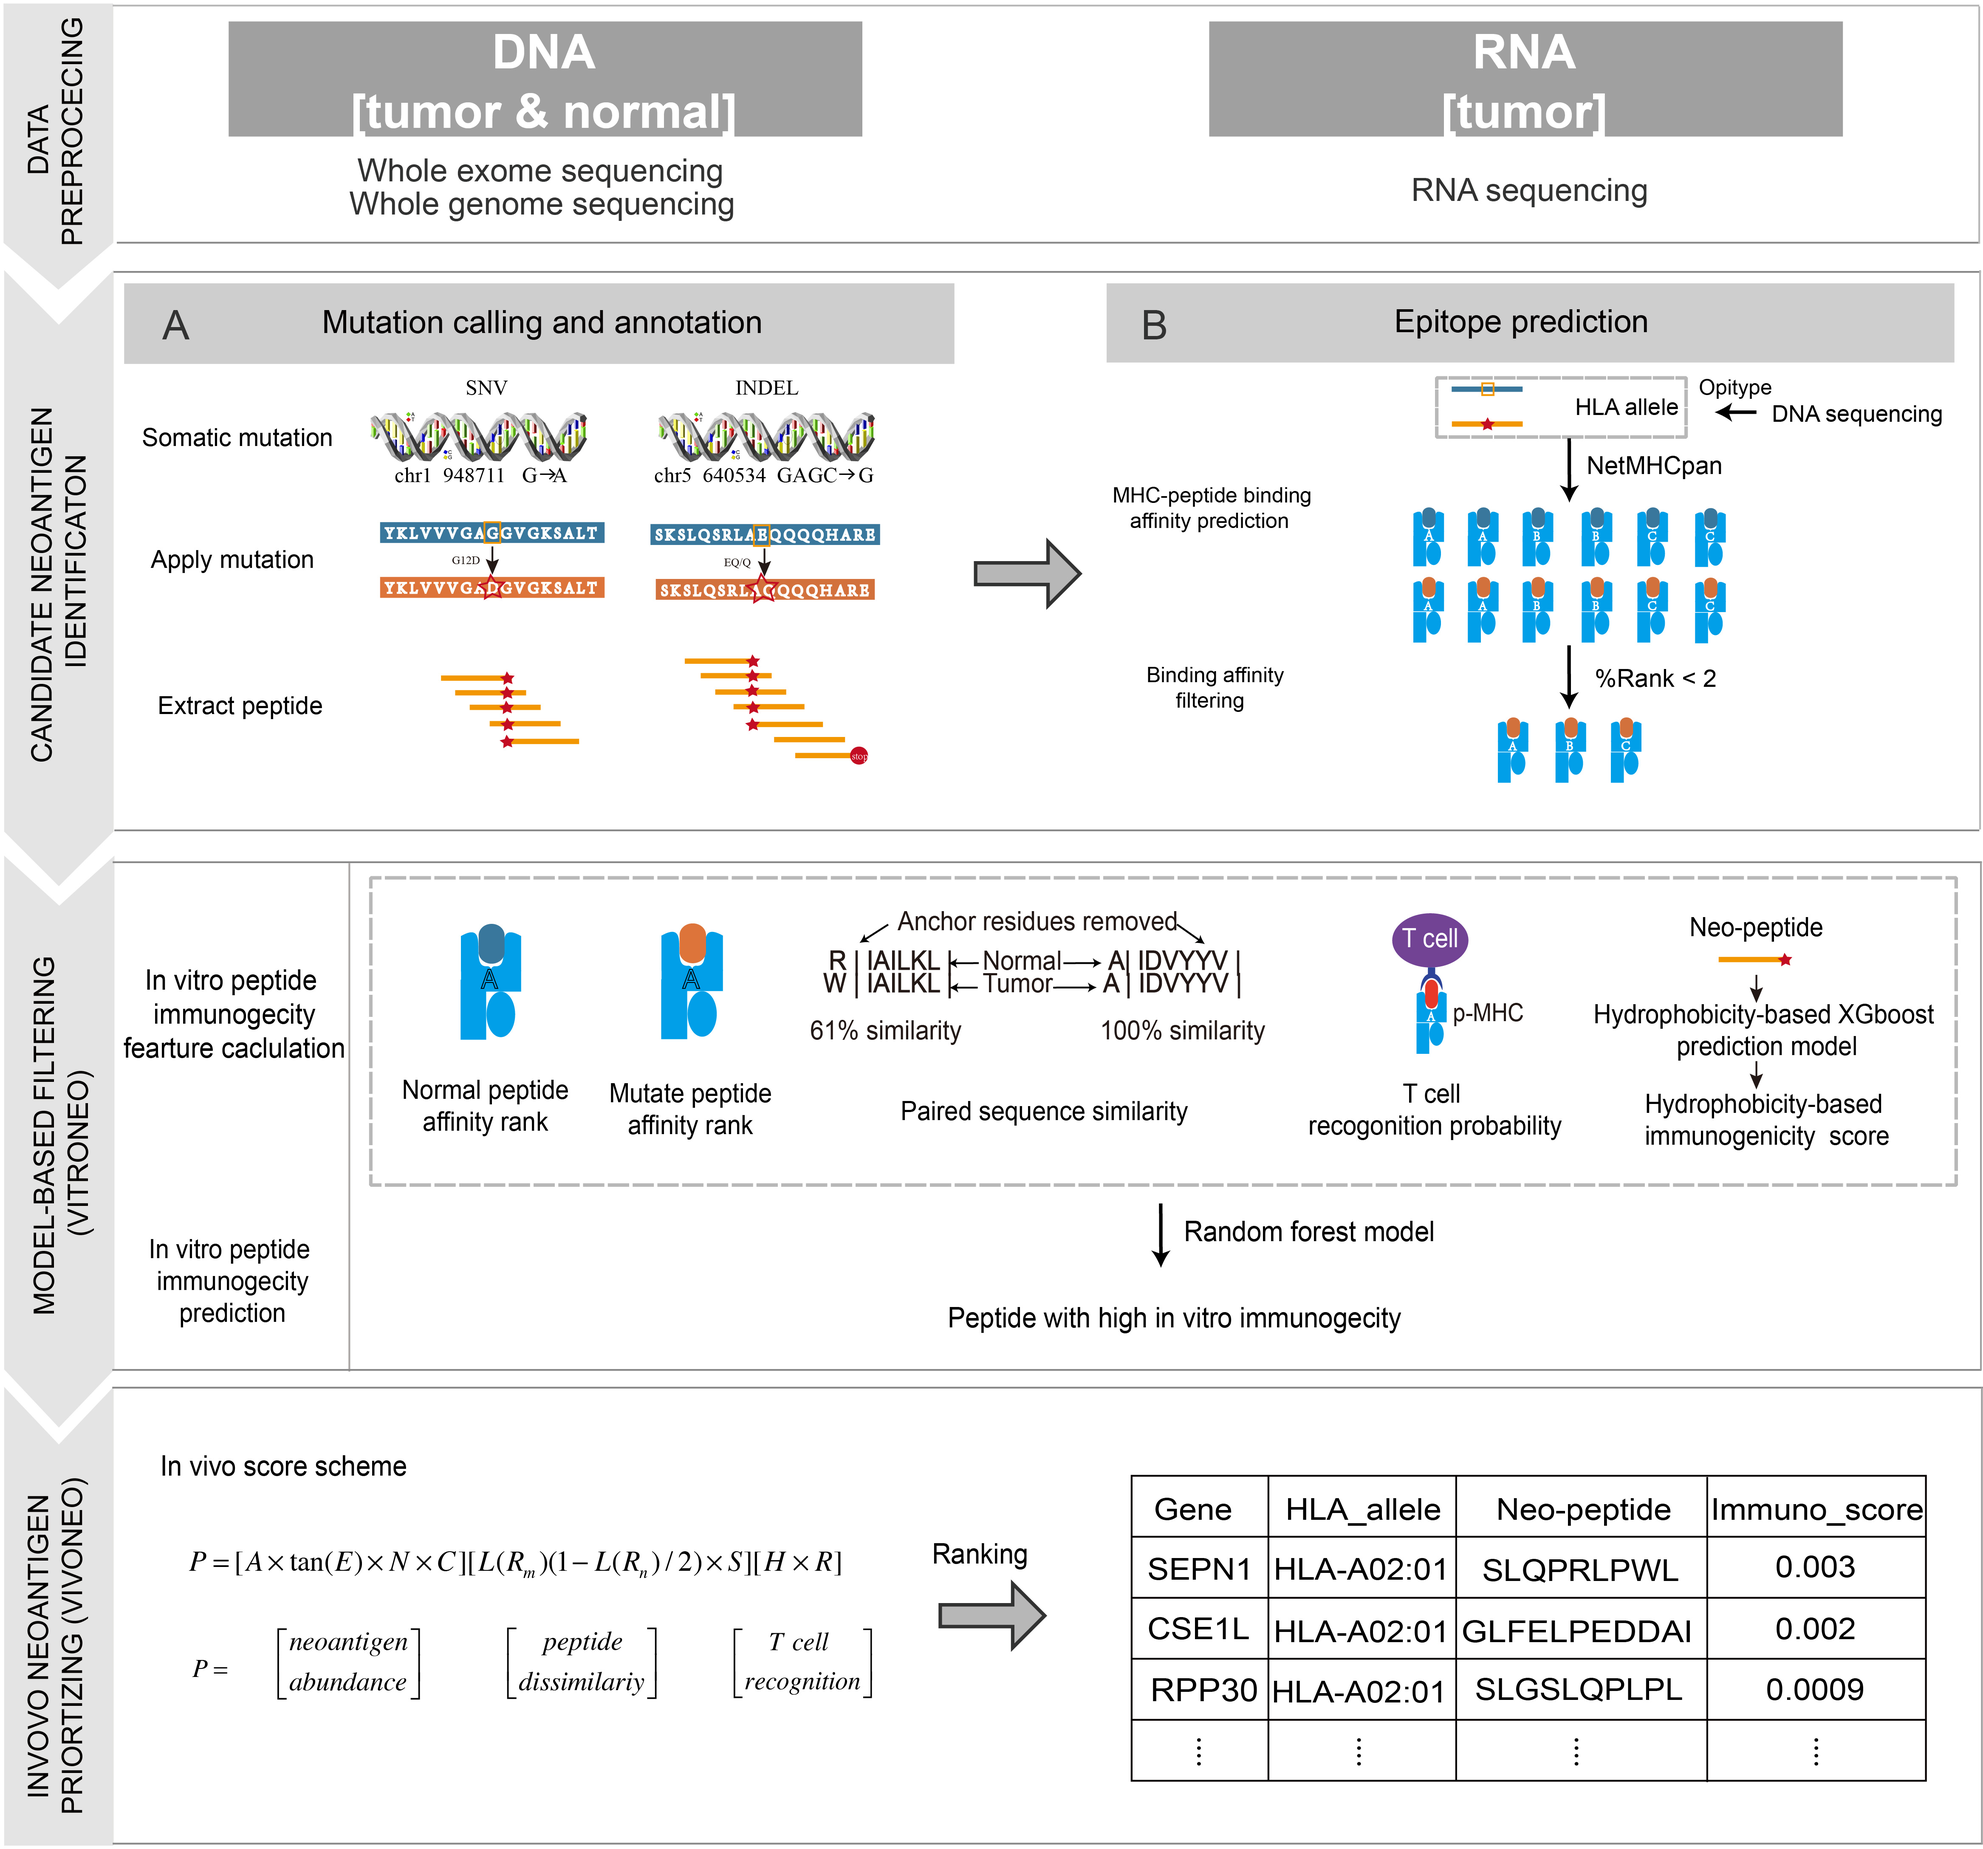
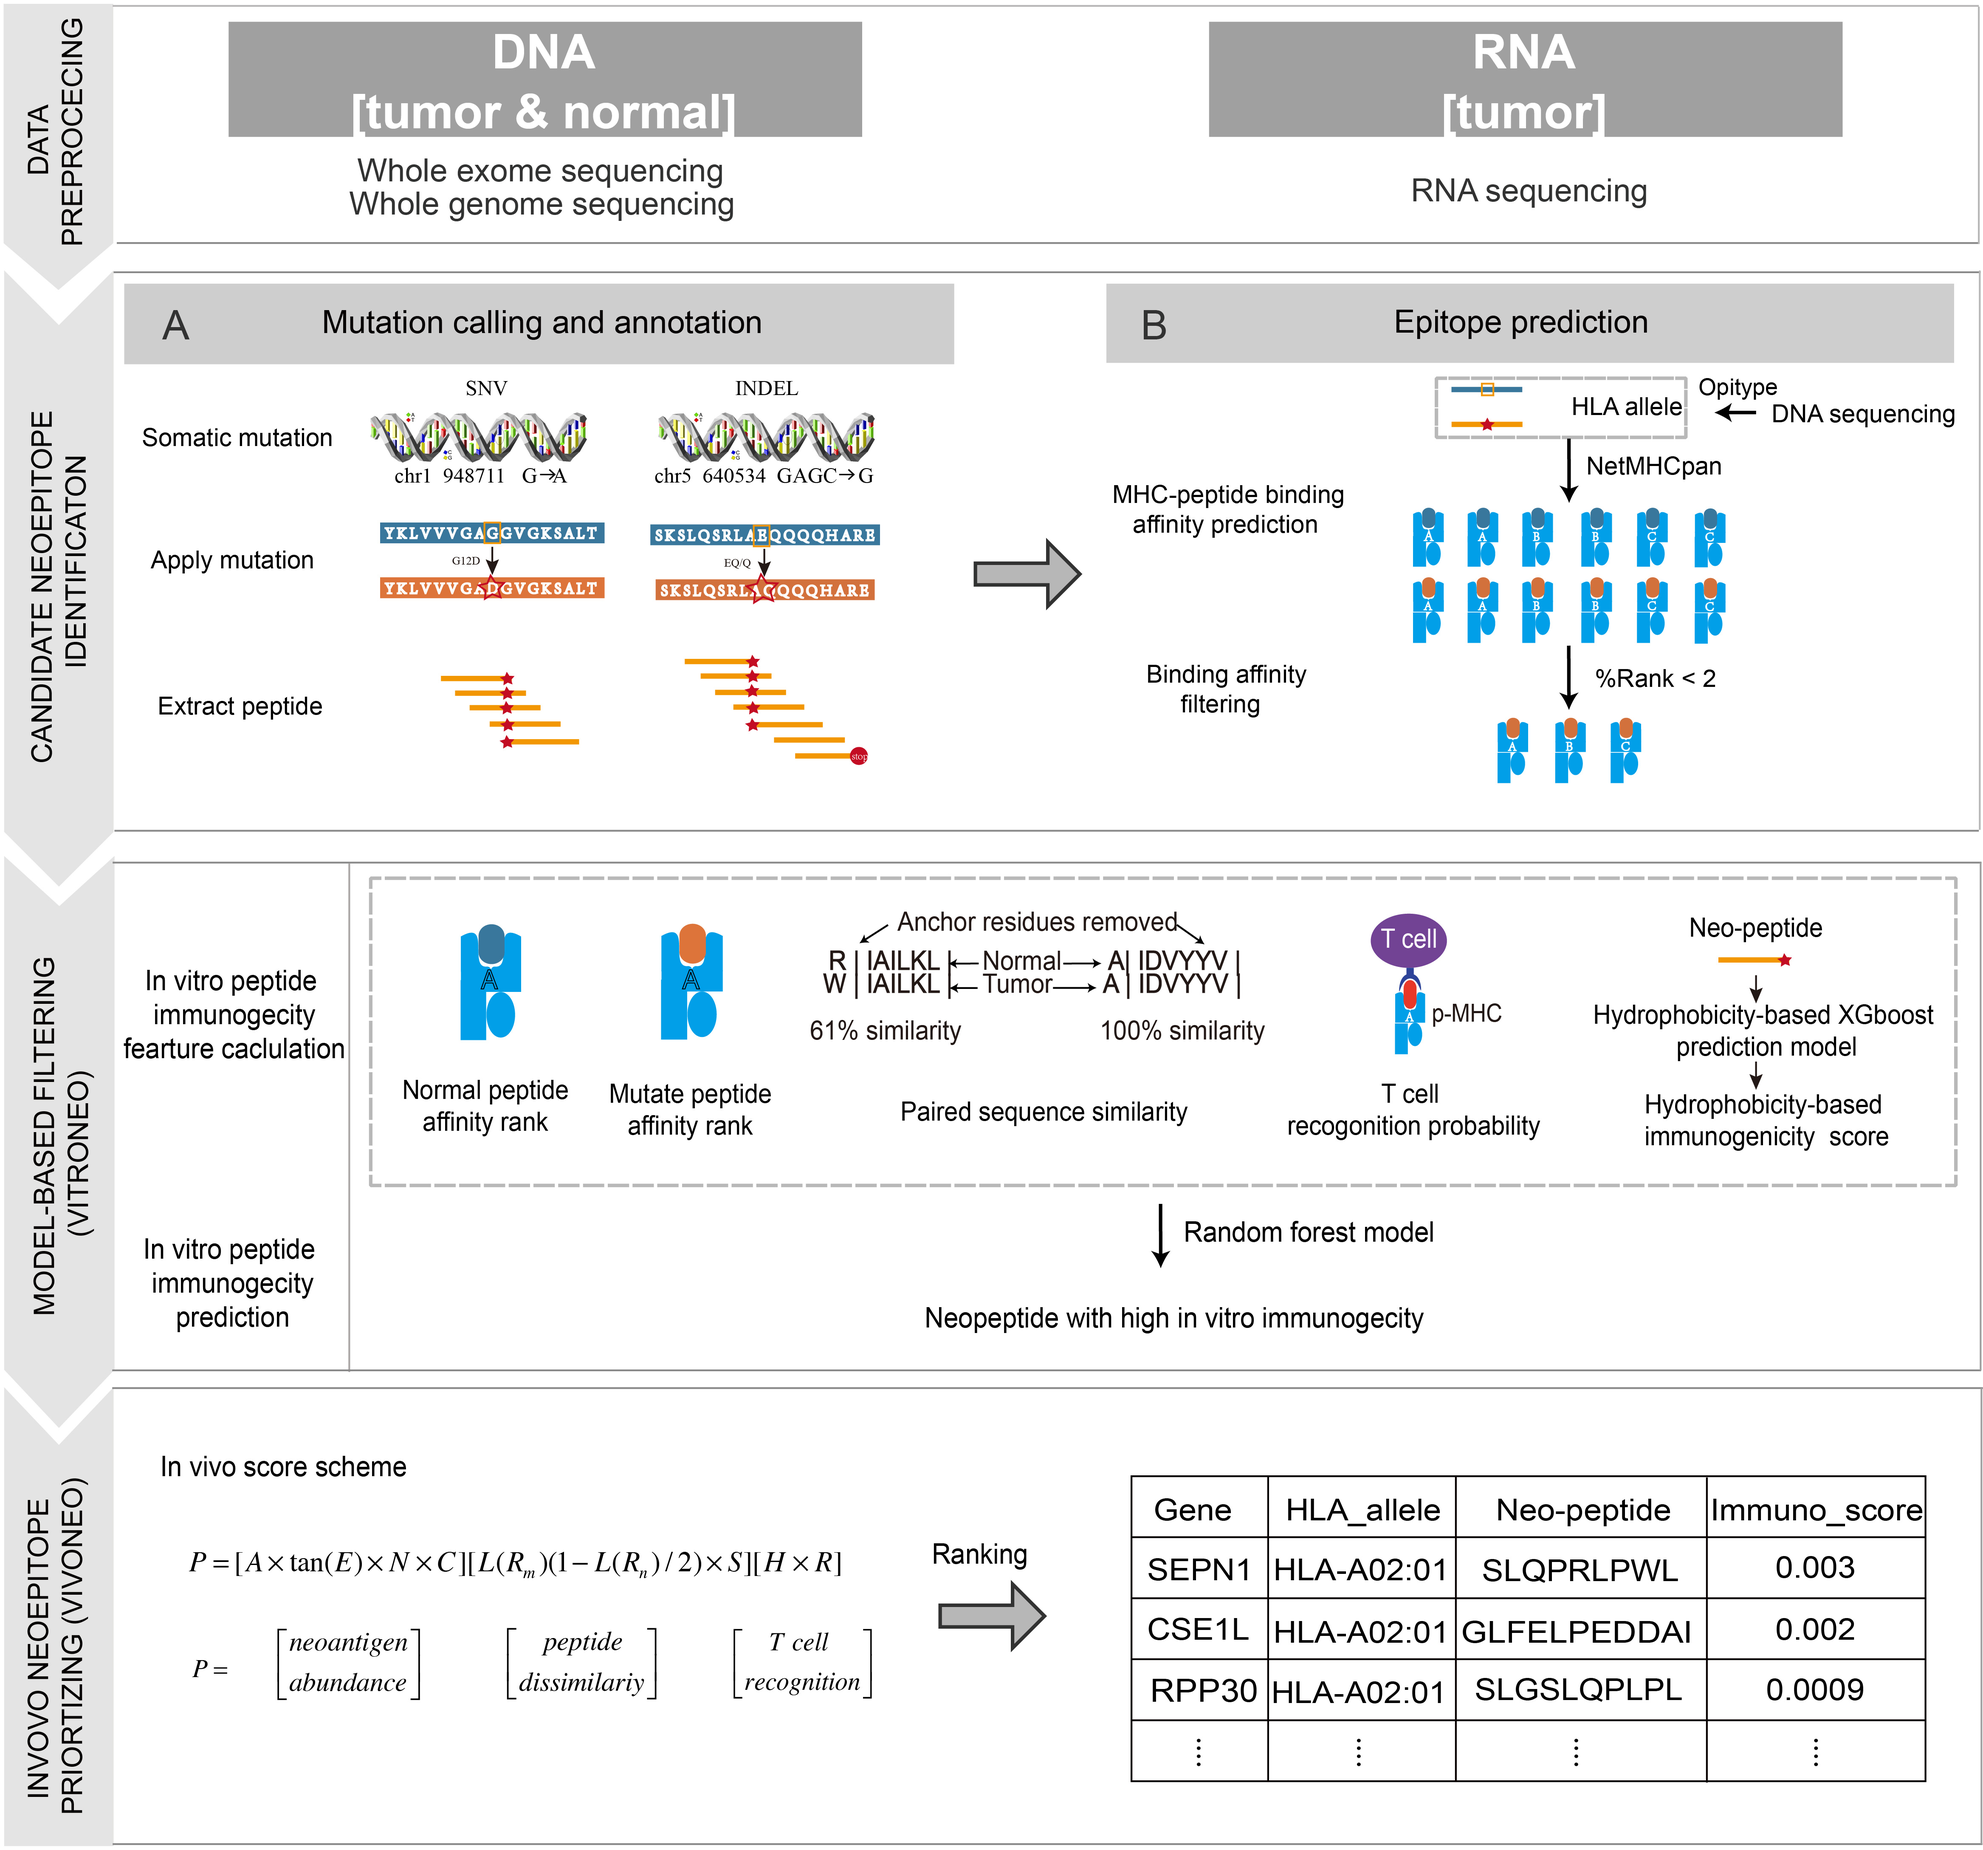
revised version

diff --git a/doc/iTunes_User_Manual.md b/doc/iTunes_User_Manual.md
@@ -22,7 +22,7 @@
 
 ## General Description
 
-iTunes is the state-of-the-art computational pipeline for identifying personalized tumor neoantigens from next-generation sequencing data. With raw whole-exome sequencing data and/or RNA-seq data, iTunes calculates five important immunogenicity features to construct a machine learning-based classifier (vitroneo) to predict and prioritize neoantigens with strong in vitro immunologic effects, followed by an efficient score scheme (vivoneo) to identify neoantigens with in vivo immunologic effects.
+iTunes is the state-of-the-art computational pipeline for identifying personalized tumor neoantigens from next-generation sequencing data. With raw whole-exome sequencing data and/or RNA-seq data, iTunes calculates five important immunogenicity features to construct a machine learning-based classifier (vitroneo) to predict and prioritize neoepitopes with strong in vitro immunologic effects, followed by an efficient score scheme (vivoneo) to identify neoepitopes with in vivo immunologic effects.
 
 ## Dependencies  
 
@@ -188,9 +188,9 @@ Docker image of iTunes is at https://hub.docker.com/r/bm2lab/itunes/.
 
 iTunes has two modes: `WES` mode and `VCF` mode.
 
-`WES` mode accepts WES and RNA-seq sequencing data as input, it conduct sequencing quality control, mutation calling, hla typing, expression profiling and neoantigen prediction, filtering, annotation.
+`WES` mode accepts WES and RNA-seq sequencing data as input, it conduct sequencing quality control, mutation calling, hla typing, expression profiling and neoepitope prediction, filtering, annotation.
 
-`VCF` mode accepts mutation VCF file, expression profile, copy number profile and tumor cellularity as input, it performs neoantigen prediction, filtering, annotation directly on input file.
+`VCF` mode accepts mutation VCF file, expression profile, copy number profile and tumor cellularity as input, it performs neoepitope prediction, filtering, annotation directly on input file.
 
 You can use these two modes by:
 
@@ -200,7 +200,7 @@ You can use these two modes by:
 ## Input Files
 
 ### Input Files (WES mode) 
-Pair-end matched tumor-normal whole exome sequencing file should be provided for basic neoantigens identification, expression profile file or raw RNA sequencing file is optional if you want to get expressed neoantigen. iTunes accepts pair-end matched tumor-normal whole exome sequencing as input. It could be in `.fastq.gz` or `.fastq` format. 
+Pair-end matched tumor-normal whole exome sequencing file should be provided for basic neoepitopes identification, expression profile file or raw RNA sequencing file is optional if you want to get expressed neoepitope. iTunes accepts pair-end matched tumor-normal whole exome sequencing as input. It could be in `.fastq.gz` or `.fastq` format. 
 You should specify the right path to the sequencing file in `config_WES.yaml` like:
 
     #your path to first tumor fastq file
@@ -260,18 +260,18 @@ User should set all the parameters in the configuration file `config_WES.yaml` o
 * Software excutable path of opitype, vep, netMHCpan, PyClone and strelka.
 
 ## Output Files 
-iTunes output four result files contain information of identified neoantigens corresponding to nonsynonymous point mutation and INDEL mutation.
+iTunes output four result files contain information of identified neoepitopes corresponding to nonsynonymous point mutation and INDEL mutation.
 
 The output files are the following: 
 1.  snv_neo_model.tsv 
 
     The file is a TSV file with the extracted mutated peptides derived from nonsynonymous point mutation with a model-based
-    score measures the immunity of neoantigens in in-vivo experiment such as `ELISPOT` and `ICS`. 
+    score measures the immunity of neoepitopes in in-vivo experiment such as `ELISPOT` and `ICS`. 
     
 2.  indel_neo_model.tsv
 
     The file is a TSV file with the extracted mutated peptides derived from INDEL mutation with a model-based score measures
-    the immunity of neoantigens in in-vivo experiment such as `ELISPOT` and `ICS`.
+    the immunity of neoepitopes in in-vivo experiment such as `ELISPOT` and `ICS`.
 
 
 ### Column explanation
@@ -301,8 +301,8 @@ The prediction output (snv_neo_model.tsv/indel_neo_model.tsv) for each peptide p
 | Recognition_score     | T cell recognition score calculated based on TCR cross reactivity. |
 | Hydrophobicity_score  | Neo-peptide immunity mesurement based on animo acid hydrophobicity. |
 | Self_sequence_similarity | Sequence similarity bewteen mutated peptide and normal(homglogous) peptide, We select the bigger one as final score |
-| Model_pro       | Model prediction score for neoantigen in vitro immunogenicty denpend on Recognition_score, Hydrophobicity_score, Self_sequence_similarity, WT_Binding_EL, MT_Binding_EL. |
-| Immuno_effect_score	| In vivo immunogenicty score for neoantigens. |
+| Model_pro       | Model prediction score for neoepitope in vitro immunogenicty denpend on Recognition_score, Hydrophobicity_score, Self_sequence_similarity, WT_Binding_EL, MT_Binding_EL. |
+| Immuno_effect_score	| In vivo immunogenicty score for neoepitopes. |
 
 
 ## Contact   
